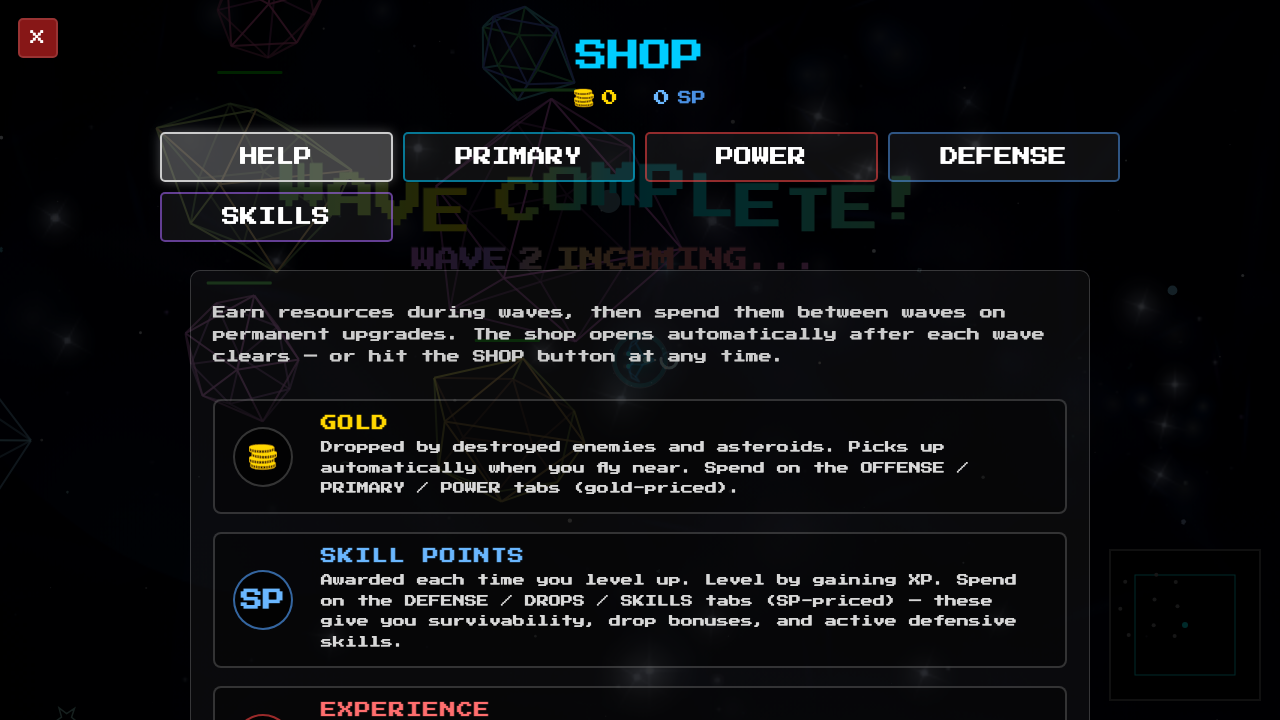
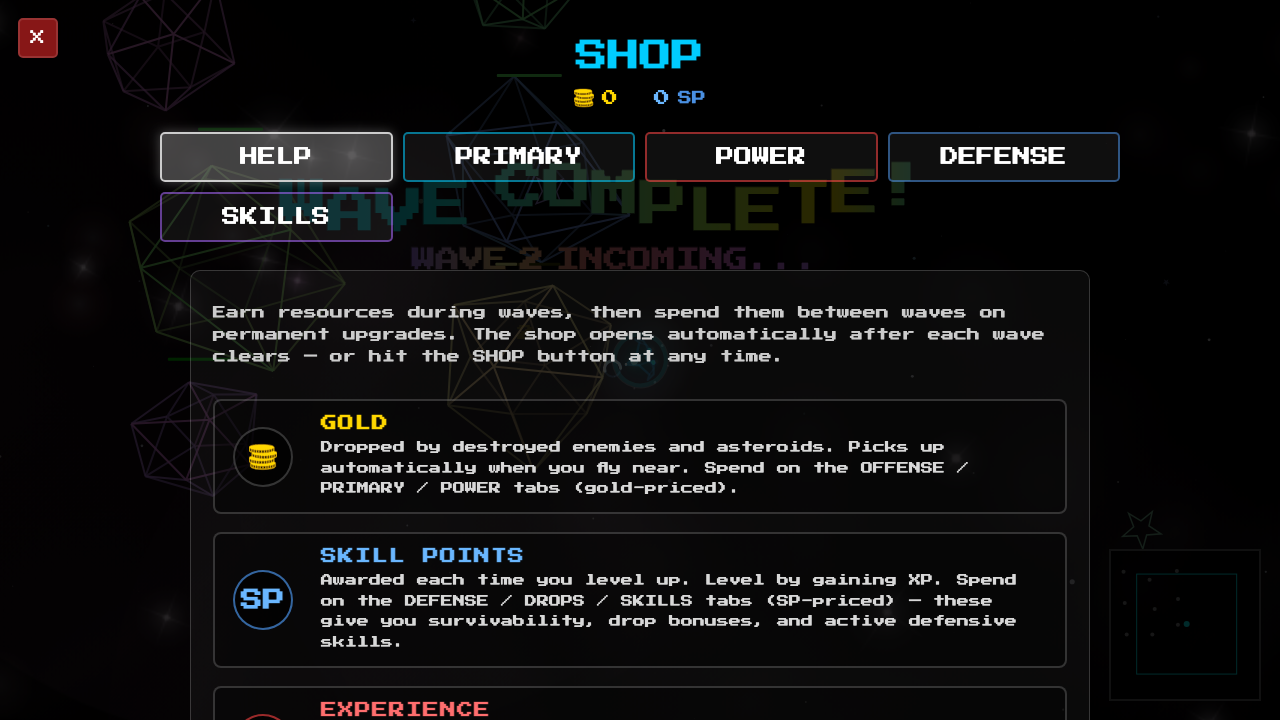
5.49.6: nebula — remove dust haze, keep only blobs + lens-flare stars
Cumulative haze passes were laying a uniform fog over the canvas.
Removed:
- _drawStardust (30-90 speckle dots/layer)
- _drawFilament (12-22 streak threads/layer)
- _drawDustLane (0-3 dark absorbing silhouettes/blob)
- _drawWisp (bowed gradient chains between blobs)
- _drawSkyTint (faint full-canvas radial wash/layer)

LAYER_CONFIG fields gone: speckles, speckleAlpha, wispCount,
dustLanesPerBlob, filamentCount.

Each layer now renders only the structured passes: blob bodies
(shadow + body + edge halo + hot core, density profiles, ellipse
asymmetry, palette-pool sampling, HSL jitter — all preserved) and
the lens-flare embedded stars (bright pinpoints with halos and 4-
pointy diffraction spikes). Blobs sit cleanly on the dark canvas.

diff --git a/js/modules/performance/nebula-renderer.js b/js/modules/performance/nebula-renderer.js
@@ -214,10 +214,11 @@ const SCENE_PALETTES = [
 // distant/dim and near layers look close/bright (atmospheric
 // perspective).
 //
-// New realism fields:
-//   embeddedStars  — count of bright stars with halo+spikes
-//   dustLanesPerBlob — 0..N dark absorbing lanes drawn over body
-//   filamentCount  — short streaky threads scattered around blobs
+// Pared back: the dust speckles + filament threads + dust lanes +
+// wisps + sky-tint passes were removed because together they laid a
+// uniform haze over the entire canvas. Only the structured passes
+// remain: blobs (with their internal volumetric layering) and bright
+// embedded "lens-flare" stars with diffraction spikes.
 const LAYER_CONFIG = [
     {
         // Far back — dim, locked to camera, biggest blobs
@@ -226,12 +227,7 @@ const LAYER_CONFIG = [
         blobCount: [4, 6],
         radiusRange: [320, 700],
         opacityRange: [0.05, 0.10],
-        speckles: 90,
-        speckleAlpha: [0.10, 0.22],
-        wispCount: [2, 4],
         embeddedStars: 6,
-        dustLanesPerBlob: [0, 1],
-        filamentCount: 12,
     },
     {
         // Mid-far — slightly more parallax, slightly brighter
@@ -240,12 +236,7 @@ const LAYER_CONFIG = [
         blobCount: [3, 5],
         radiusRange: [220, 480],
         opacityRange: [0.06, 0.13],
-        speckles: 70,
-        speckleAlpha: [0.18, 0.35],
-        wispCount: [2, 3],
         embeddedStars: 8,
-        dustLanesPerBlob: [0, 2],
-        filamentCount: 18,
     },
     {
         // Mid-near — clear parallax kick
@@ -254,12 +245,7 @@ const LAYER_CONFIG = [
         blobCount: [3, 4],
         radiusRange: [140, 320],
         opacityRange: [0.07, 0.15],
-        speckles: 50,
-        speckleAlpha: [0.30, 0.55],
-        wispCount: [1, 3],
         embeddedStars: 10,
-        dustLanesPerBlob: [1, 2],
-        filamentCount: 22,
     },
     {
         // Closest — very strong parallax, brightest layer, smallest blobs
@@ -268,12 +254,7 @@ const LAYER_CONFIG = [
         blobCount: [2, 3],
         radiusRange: [80, 180],
         opacityRange: [0.08, 0.18],
-        speckles: 30,
-        speckleAlpha: [0.45, 0.75],
-        wispCount: [1, 2],
         embeddedStars: 12,
-        dustLanesPerBlob: [1, 3],
-        filamentCount: 18,
     },
 ];
 
@@ -384,10 +365,6 @@ class NebulaRenderer {
             // (cooler/dimmer) and near layers pop.
             const lp = this._derivedLayerPalette(cfg.lumMul);
 
-            // Sky tint — faint full-canvas wash so the layer reads as
-            // a continuous gas field rather than detached patches.
-            this._drawSkyTint(ctx, w, h, cfg, lp);
-
             // Body — main nebula blobs. Mix density profiles for
             // visual rhythm: a few bright cores, a base of normal
             // blobs, plus large background haze patches.
@@ -400,41 +377,10 @@ class NebulaRenderer {
                 blobs.push(this._drawBlob(ctx, w, h, scale, cfg, lp, profile));
             }
 
-            // Dust lanes — dark absorbing streaks drawn ON TOP of
-            // each blob. Real nebulae are full of these silhouettes
-            // where dense dust blocks the gas's emission.
-            for (const blob of blobs) {
-                const laneCount = Math.floor(random(
-                    cfg.dustLanesPerBlob[0], cfg.dustLanesPerBlob[1] + 1,
-                ));
-                for (let i = 0; i < laneCount; i++) {
-                    this._drawDustLane(ctx, scale, cfg, lp, blob);
-                }
-            }
-
-            // Filaments — short threaded streaks of gas, biased to
-            // blob outer edges where shock fronts and tendrils form.
-            // These give the nebula a "stranded" / fibrous texture
-            // rather than a smooth gradient field.
-            for (let i = 0; i < cfg.filamentCount; i++) {
-                this._drawFilament(ctx, w, h, scale, cfg, lp, blobs);
-            }
-
-            // Wisps — elongated streaks of gas connecting nearby blobs.
-            // Adds the "filament" detail that suggests 3D structure.
-            const wispCount = Math.floor(random(cfg.wispCount[0], cfg.wispCount[1] + 1));
-            for (let i = 0; i < wispCount; i++) {
-                this._drawWisp(ctx, w, h, scale, cfg, lp, blobs);
-            }
-
-            // Stardust speckle — tiny dots of high-alpha highlight
-            // color seeded inside denser regions.
-            this._drawStardust(ctx, w, h, cfg, lp, blobs);
-
-            // Embedded stars — bright pinpoints with halos and four
-            // diffraction spikes, biased toward blob centers where
-            // young stars form. THE iconic "this is a space photo"
-            // visual cue.
+            // Embedded "lens-flare" stars — bright pinpoints with
+            // halos and four-pointy-corner diffraction spikes,
+            // biased to blob interiors. Only structured pass that
+            // survived the dust-haze cull.
             this._drawEmbeddedStars(ctx, w, h, cfg, lp, blobs);
 
             this.layers.push({ canvas, depth: cfg.depth });
@@ -458,28 +404,8 @@ class NebulaRenderer {
         };
     }
 
-    // Faint full-canvas wash. Pick three random tones from the layer
-    // pool so the sky tint itself has color variation rather than
-    // always painting the canvas in the secondary color.
-    _drawSkyTint(ctx, w, h, layerCfg, lp) {
-        const [c0, c1] = pickRandom(lp.tones, 2);
-        const grad = ctx.createRadialGradient(
-            w * (0.4 + Math.random() * 0.2),
-            h * (0.4 + Math.random() * 0.2),
-            0,
-            w / 2, h / 2,
-            Math.max(w, h) * 0.7,
-        );
-        const tintAlpha = 0.04 * layerCfg.lumMul;
-        grad.addColorStop(0,   rgba(c0, tintAlpha));
-        grad.addColorStop(0.5, rgba(c1 || c0, tintAlpha * 0.7));
-        grad.addColorStop(1,   rgba(lp.shadow,  tintAlpha * 0.4));
-        ctx.fillStyle = grad;
-        ctx.fillRect(0, 0, w, h);
-    }
-
-    // Returns the placed blob's center + base radius so wisps + stardust
-    // can anchor near density peaks. `profile` selects density variant:
+    // Returns the placed blob's center + base radius. `profile` selects
+    // the density variant:
     //   'bright' — vivid, high opacity, definite hot core, edge halo
     //   'normal' — middle ground, the workhorse blob
     //   'haze'   — large, dim, no hot core; background gas
@@ -615,79 +541,6 @@ class NebulaRenderer {
         return { cx, cy, baseRadius };
     }
 
-    // ── Dust lane ────────────────────────────────────────────────
-    // A dark, elongated absorption silhouette painted ON TOP of an
-    // existing blob. Mimics the dust lanes that bisect real
-    // emission nebulae (Trifid, Eagle, Lagoon). Drawn as a long
-    // thin ellipse with a gradient that fades the dark color in
-    // along the lane and out at the ends.
-    _drawDustLane(ctx, scale, layerCfg, lp, blob) {
-        const { cx, cy, baseRadius } = blob;
-        // Position lane somewhat off-center across the blob.
-        const offset = random(-baseRadius * 0.4, baseRadius * 0.4);
-        const angle = Math.random() * Math.PI;
-        const lenAlong = baseRadius * random(1.0, 1.6);
-        const lenAcross = baseRadius * random(0.08, 0.18);
-        const px = -Math.sin(angle), py = Math.cos(angle);
-        const lcx = cx + px * offset;
-        const lcy = cy + py * offset;
-        const darkness = random(0.35, 0.7);
-
-        ctx.save();
-        ctx.translate(lcx, lcy);
-        ctx.rotate(angle);
-        ctx.scale(1, lenAcross / lenAlong);
-        // Gradient: dark in the middle, fade at the ends.
-        const grad = ctx.createRadialGradient(0, 0, 0, 0, 0, lenAlong);
-        grad.addColorStop(0,    rgba(lp.shadow, darkness));
-        grad.addColorStop(0.5,  rgba(lp.shadow, darkness * 0.7));
-        grad.addColorStop(0.85, rgba(lp.shadow, darkness * 0.18));
-        grad.addColorStop(1,    rgba(lp.shadow, 0));
-        ctx.fillStyle = grad;
-        ctx.beginPath();
-        ctx.arc(0, 0, lenAlong, 0, Math.PI * 2);
-        ctx.fill();
-        ctx.restore();
-    }
-
-    // ── Filament thread ──────────────────────────────────────────
-    // A short streaky line of bright gas. Biased to blob outer
-    // edges (where shock fronts produce thin filament structures).
-    // Drawn as a thin elongated radial gradient — readable detail
-    // without the cost of a stroke + jitter routine.
-    _drawFilament(ctx, canvasW, canvasH, scale, layerCfg, lp, blobs) {
-        if (blobs.length === 0) return;
-        const b = blobs[Math.floor(Math.random() * blobs.length)];
-        // Pick a point on a random blob's outer ring, then nudge.
-        const ang = Math.random() * Math.PI * 2;
-        const distFromCenter = b.baseRadius * random(0.55, 1.05);
-        const cx2 = b.cx + Math.cos(ang) * distFromCenter;
-        const cy2 = b.cy + Math.sin(ang) * distFromCenter;
-        // Filament orientation often runs ROUGHLY tangent to the
-        // blob edge — that's how shock-front filaments form. Take
-        // tangent direction and add some random rotation slop.
-        const tangent = ang + Math.PI / 2 + random(-0.6, 0.6);
-        const length = b.baseRadius * random(0.15, 0.45);
-        const thickness = length * random(0.06, 0.14);
-
-        const tone = pickRandom(lp.tones, 1)[0];
-        const opacity = random(layerCfg.opacityRange[0], layerCfg.opacityRange[1]) * 1.4;
-
-        ctx.save();
-        ctx.translate(cx2, cy2);
-        ctx.rotate(tangent);
-        ctx.scale(1, thickness / length);
-        const grad = ctx.createRadialGradient(0, 0, 0, 0, 0, length);
-        grad.addColorStop(0,   rgba(tone, opacity));
-        grad.addColorStop(0.5, rgba(tone, opacity * 0.5));
-        grad.addColorStop(1,   rgba(tone, 0));
-        ctx.fillStyle = grad;
-        ctx.beginPath();
-        ctx.arc(0, 0, length, 0, Math.PI * 2);
-        ctx.fill();
-        ctx.restore();
-    }
-
     // ── Embedded stars ───────────────────────────────────────────
     // Bright pinpoint stars with soft halos and a 4-arm diffraction
     // spike pattern, scattered through the layer with a bias to
@@ -764,107 +617,6 @@ class NebulaRenderer {
                 ctx.fillStyle = rgba([255, 255, 255], 0.95);
                 ctx.beginPath();
                 ctx.arc(x, y, coreSize * 0.4, 0, Math.PI * 2);
-                ctx.fill();
-            }
-        }
-    }
-
-    // Draw an elongated soft gradient between two blob centers (or
-    // between a blob and a random point) to suggest a gas filament.
-    // Implemented as a chain of small radial gradients along the line.
-    _drawWisp(ctx, canvasW, canvasH, scale, layerCfg, lp, blobs) {
-        if (blobs.length < 2) return;
-        const a = blobs[Math.floor(Math.random() * blobs.length)];
-        let b = blobs[Math.floor(Math.random() * blobs.length)];
-        if (b === a && blobs.length > 1) {
-            b = blobs[(blobs.indexOf(a) + 1) % blobs.length];
-        }
-
-        const dx = b.cx - a.cx;
-        const dy = b.cy - a.cy;
-        const dist = Math.hypot(dx, dy);
-        if (dist < 50) return; // nothing to thread
-
-        const steps = Math.max(6, Math.floor(dist / 60));
-        const wispOpacity = random(layerCfg.opacityRange[0], layerCfg.opacityRange[1]) * 0.5;
-        const baseSize = ((a.baseRadius + b.baseRadius) / 2) * 0.18;
-
-        // Light arc bow — perpendicular displacement so the wisp
-        // doesn't look like a straight ruler. Up to ±30% of dist.
-        const px = -dy / dist;
-        const py = dx / dist;
-        const bow = random(-dist * 0.3, dist * 0.3);
-
-        // Wisp uses two random tones from the pool for its color —
-        // that way wisps in the same scene aren't all the same hue.
-        const [wispTone0, wispTone1] = pickRandom(lp.tones, 2);
-
-        for (let i = 1; i < steps; i++) {
-            const t = i / steps;
-            // Quadratic bow: peaks at midpoint
-            const bowFactor = 4 * t * (1 - t);
-            const sx = a.cx + dx * t + px * bow * bowFactor;
-            const sy = a.cy + dy * t + py * bow * bowFactor;
-            const r = baseSize * random(0.7, 1.5);
-
-            const wgrad = ctx.createRadialGradient(sx, sy, 0, sx, sy, r);
-            wgrad.addColorStop(0,   rgba(wispTone0, wispOpacity));
-            wgrad.addColorStop(0.5, rgba(wispTone1 || wispTone0, wispOpacity * 0.55));
-            wgrad.addColorStop(1,   rgba(wispTone1 || wispTone0, 0));
-            ctx.fillStyle = wgrad;
-            ctx.beginPath();
-            ctx.arc(sx, sy, r, 0, Math.PI * 2);
-            ctx.fill();
-        }
-    }
-
-    // Sprinkle tiny bright dots inside / near each blob to suggest the
-    // grainy stardust that fills a real nebula. Higher density inside
-    // blobs, sparse fall-off outside.
-    _drawStardust(ctx, canvasW, canvasH, layerCfg, lp, blobs) {
-        const total = layerCfg.speckles;
-        for (let i = 0; i < total; i++) {
-            // Bias 70% of speckles to live inside blobs.
-            let x, y;
-            if (Math.random() < 0.7 && blobs.length > 0) {
-                const b = blobs[Math.floor(Math.random() * blobs.length)];
-                const ang = Math.random() * Math.PI * 2;
-                // Pull toward center via sqrt for higher density at core
-                const dist = Math.sqrt(Math.random()) * b.baseRadius * 0.85;
-                x = b.cx + Math.cos(ang) * dist;
-                y = b.cy + Math.sin(ang) * dist;
-            } else {
-                x = Math.random() * canvasW;
-                y = Math.random() * canvasH;
-            }
-
-            // Color: 75% pure speckle white, 18% random accent from the
-            // pool, 7% highlight. Prevents monochrome speckle field
-            // and lets each layer have some accent diversity.
-            const r = Math.random();
-            const c = r < 0.75 ? lp.speckle
-                    : r < 0.93 ? lp.accents[Math.floor(Math.random() * lp.accents.length)]
-                    : lp.highlight;
-            const a = random(layerCfg.speckleAlpha[0], layerCfg.speckleAlpha[1]);
-
-            // Size distribution: 70% small dust, 25% medium, 5% bright stars
-            const t = Math.random();
-            let size;
-            if (t < 0.70) size = 0.4;
-            else if (t < 0.95) size = 0.9;
-            else size = 1.5;
-
-            ctx.fillStyle = rgba(c, a);
-            ctx.beginPath();
-            ctx.arc(x, y, size, 0, Math.PI * 2);
-            ctx.fill();
-
-            // The brightest speckles get a tiny corona — feels like a
-            // pinpoint star embedded in the gas.
-            if (size === 1.5) {
-                ctx.fillStyle = rgba(c, a * 0.35);
-                ctx.beginPath();
-                ctx.arc(x, y, size * 2.2, 0, Math.PI * 2);
                 ctx.fill();
             }
         }

diff --git a/CHANGELOG.md b/CHANGELOG.md
@@ -11,6 +11,22 @@ and this project adheres to [Semantic Versioning](https://semver.org/spec/v2.0.0
 
 ---
 
+## [5.49.6] - 2026-05-03
+
+### Removed
+- **All "haze" passes from the nebula renderer.** Cumulatively they were laying a uniform fog over the entire canvas. Gone:
+  - **Stardust speckles** — 30-90 tiny dots per layer biased to blob interiors. `_drawStardust` deleted.
+  - **Filament threads** — 12-22 short streaky bright gradients per layer. `_drawFilament` deleted.
+  - **Dust lanes** — 0-3 dark absorbing silhouettes per blob. `_drawDustLane` deleted.
+  - **Wisps** — bowed gradient chains connecting blob centers. `_drawWisp` deleted.
+  - **Sky tint** — faint full-canvas radial wash per layer. `_drawSkyTint` deleted.
+- LAYER_CONFIG fields removed: `speckles`, `speckleAlpha`, `wispCount`, `dustLanesPerBlob`, `filamentCount`.
+
+### Result
+- Each nebula layer now renders only **structured passes**: blob bodies (with shadow + body + edge halo + hot core, density-profile mix, ellipse asymmetry, palette-pool sampling, HSL jitter — all preserved) and the **lens-flare embedded stars** (bright pinpoints with halos and 4-pointy diffraction spikes). Blobs sit cleanly on the dark canvas instead of bleeding through a global haze.
+
+---
+
 ## [5.49.5] - 2026-05-03
 
 ### Added
